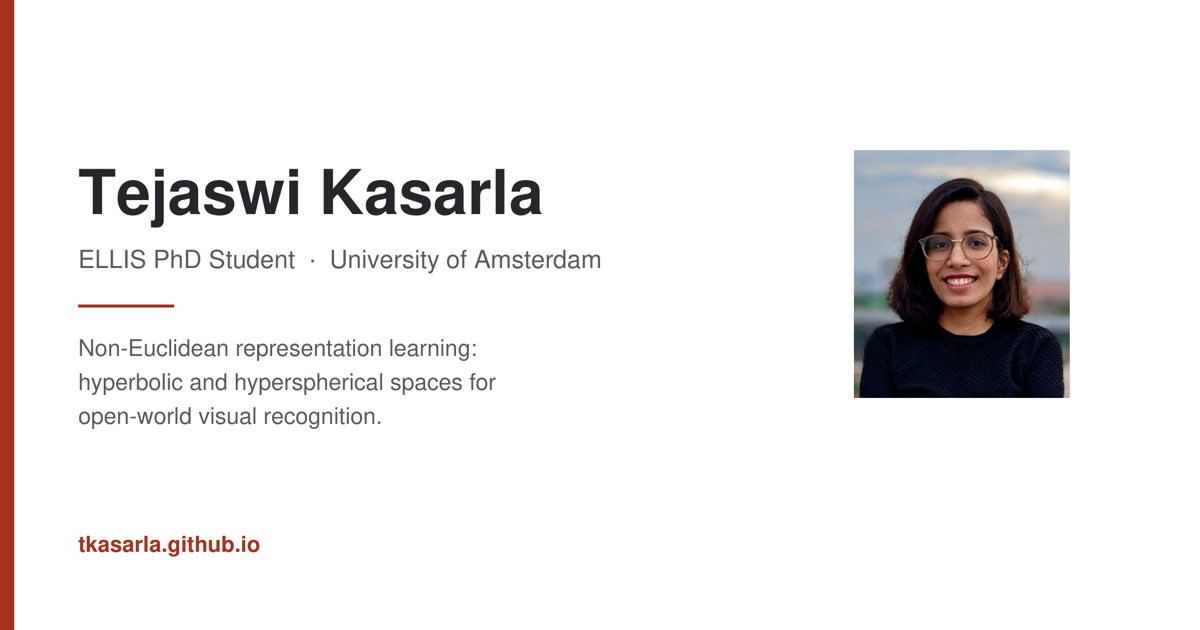
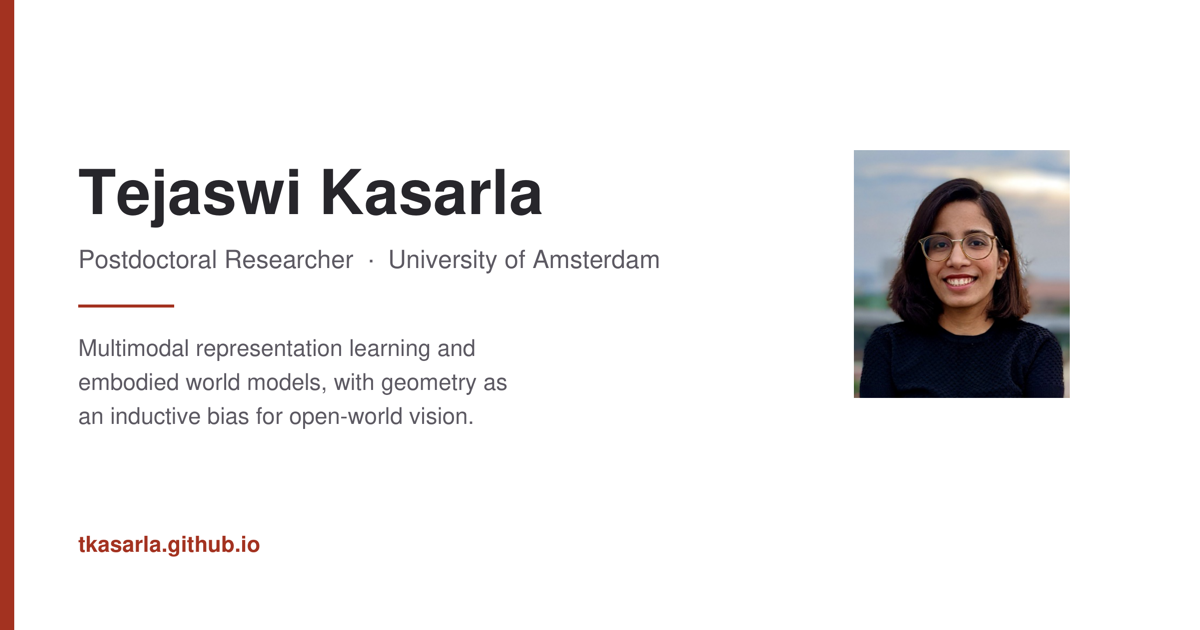
Update bio to postdoc role; fix HierVision venue
- Bio leads with the UvA postdoc (Cees Snoek, Openbots); PhD status
  left implicit. Page description and link-preview card updated too.
- Meta FAIR news entry still read as upcoming; added the postdoc start.
- HierVision said ECCV 2025 in four places; it was ICCV 2025. Added the
  CVF proceedings PDF, keeping OpenReview.

Changed region(s): [[0.0617, 0.5429, 0.4317, 0.6937], [0.0617, 0.3921, 0.555, 0.4524]]

diff --git a/_includes/js/custom.js b/_includes/js/custom.js
@@ -65,7 +65,7 @@ const bibtexData = {
   'hiervision': `@inproceedings{kasarla2025hiervision,
   title={HierVision: Standardized and Reproducible Hierarchical Sources for Vision Datasets},
   author={Kasarla, Tejaswi and Rooparaghunath, Ruthu Hulikal and D'Arrigo, Stefano and Mago, Gowreesh and Jha, Abhishek and Ayoughi, Melika and Mishra, Swasti Shreya and Manzano Rodr{\'{i}}guez, Ana and Long, Teng and Ghadimi Atigh, Mina and van Spengler, Max and Mettes, Pascal},
-  booktitle={ECCV Workshop on Beyond Euclidean},
+  booktitle={ICCV Workshop on Beyond Euclidean},
   year={2025}
 }`
 };

diff --git a/index.md b/index.md
@@ -2,7 +2,7 @@
 layout: default
 title: Home
 nav_order: 1
-description: "PhD Student, University of Amsterdam"
+description: "Postdoctoral Researcher, University of Amsterdam"
 permalink: /
 ---
 
@@ -12,9 +12,9 @@ permalink: /
 <div class="hero">
 <div class="hero-text" markdown="1">
 
-I am an ELLIS PhD student at [**University of Amsterdam**](https://www.uva.nl/en){: .text-grey-dk-100}, advised by [Pascal Mettes](https://staff.fnwi.uva.nl/p.s.m.mettes/index.html). My main research is in non-Euclidean representation learning (especially hyperbolic and hyperspherical representation spaces) and their applications to open-world visual recognition and multimodal foundation models. More recently, I am interested in how the geometry of the representation space can structure and ground embodied world models, so that agents can reason about actions and uncertainty at multiple levels of abstraction.
+I am a postdoctoral researcher at [**University of Amsterdam**](https://www.uva.nl/en){: .text-grey-dk-100}, working with [Cees Snoek](https://www.ceessnoek.info) on embodied world models. I am also part of the Openbots project with [TNO](https://www.tno.nl/en/) and the Royal Netherlands Marechaussee.
 
-I was a visiting researcher at [**UNIMORE**](https://www.unimore.it/){: .text-grey-dk-100} with [Rita Cucchiara](https://aimagelab.ing.unimore.it/imagelab/person.asp?idpersona=1) and a research intern at **Meta FAIR** with [Pascale Fung](https://www.linkedin.com/in/pascale-fung-a3aa05139). I care deeply about building inclusive research communities. I co-organized the [Women in Computer Vision (WiCV)](https://sites.google.com/view/wicv/) Workshop at CVPR 2021 & 2022 and have served on the WiCV board since 2022. 
+Previously, I was an ELLIS PhD student at University of Amsterdam, advised by [Pascal Mettes](https://staff.fnwi.uva.nl/p.s.m.mettes/index.html) and [Rita Cucchiara](https://aimagelab.ing.unimore.it/imagelab/person.asp?idpersona=1), where I worked on non-Euclidean representation learning (especially hyperbolic and hyperspherical representation spaces) for open-world recognition and multimodal models. I was a visiting researcher at [**UNIMORE**](https://www.unimore.it/){: .text-grey-dk-100} with Rita Cucchiara and a research intern at **Meta FAIR** with [Pascale Fung](https://www.linkedin.com/in/pascale-fung-a3aa05139). I co-organized the [Women in Computer Vision (WiCV)](https://sites.google.com/view/wicv/) Workshop at CVPR 2021 & 2022 and serve on the WiCV board.
 
 Outside academia, I am a photographer and home barista, always in search of good light and a [perfect cup](/more/#coffee) wherever I go!
 
@@ -43,9 +43,10 @@ Outside academia, I am a photographer and home barista, always in search of good
 
 | Date | Event |
 |------|-------|
+| Jun 2026 | I started as a postdoctoral researcher at the [University of Amsterdam](https://www.uva.nl/en), working on embodied world models with [Cees Snoek](https://www.ceessnoek.info). |
 | Apr 2026 | Our work on [Balanced Hyperbolic Embeddings are Natural Out-of-Distribution Detectors](https://link.springer.com/article/10.1007/s11263-026-02775-6) is accepted to IJCV! |
 | Jan 2026 | Our work on [Action100M: A Large-scale Video Action Dataset](https://arxiv.org/abs/2601.10592) is available as a preprint on arXiv! |
-| Jun 2025 | I started an internship at [Meta FAIR](https://ai.meta.com/research/) in Paris. I will spend the next 6 months working on multimodal LLMs. |
+| Jun 2025 | I joined [Meta FAIR](https://ai.meta.com/research/) in Paris for a six-month research internship on multimodal LLMs and world models. |
 | Apr 2025 | I will be a TA for the [Foundation Models (FoMo)](https://uvafomo.github.io) course at UvA. |
 | Mar 2025 | Our work on [Hyperbolic Safety-Aware Vision-Language Models](https://arxiv.org/abs/2503.12127) is accepted to CVPR 2025 as a Highlight! I will be presenting this work in-person at the conference. |
 | Jun 2024 | Visiting [Rita Cucchiara](https://aimagelab.ing.unimore.it/imagelab/person.asp?idpersona=1) at [University of Modena and Reggio Emilia](https://www.unimore.it/) until September 2024. |

diff --git a/publications.md b/publications.md
@@ -100,7 +100,7 @@ For a list of my featured publications, please scroll down the [home](/#featured
 </div>
 
 <div class="pub-card" markdown="1">
-**ECCV 2025 Beyond Euclidean Workshop** · <span class="pub-award">★ Oral</span>
+**ICCV 2025 Beyond Euclidean Workshop** · <span class="pub-award">★ Oral</span>
 {: .pub-venue}
 
 [HierVision: Standardized and Reproducible Hierarchical Sources for Vision Datasets](/papers/hiervision/)
@@ -109,7 +109,7 @@ For a list of my featured publications, please scroll down the [home](/#featured
 **Tejaswi Kasarla**, [Ruthu Hulikal Rooparaghunath](https://scholar.google.com/citations?user=RM1dNQoAAAAJ&hl=en), [Stefano D'Arrigo](https://www.linkedin.com/in/stefano-d-arrigo-6b084019a/), [Gowreesh Mago](https://gowreesh-mago.github.io/), [Abhishek Jha](https://abskjha.github.io), [Melika Ayoughi](https://melika.xyz/), [Swasti Shreya Mishra](https://www.linkedin.com/in/swastishreyamishra), [Ana Manzano Rodríguez](https://www.linkedin.com/in/ana-manzano-rodriguez), [Teng Long](https://www.linkedin.com/in/tenglong-926500116), [Mina Ghadimi Atigh](https://minaghadimi.github.io), Max van Spengler, [Pascal Mettes](https://staff.fnwi.uva.nl/p.s.m.mettes/)
 {: .pub-authors}
 
-[project page](/papers/hiervision/){: .pub-link} [paper](https://openreview.net/forum?id=deDq9Te0lT){: .pub-link target="_blank" rel="noopener noreferrer"} [code](https://github.com/tkasarla/HierVision){: .pub-link target="_blank" rel="noopener noreferrer"} <button class="pub-link bibtex-button" data-paper-id="hiervision">bibtex</button>
+[project page](/papers/hiervision/){: .pub-link} [paper](https://openaccess.thecvf.com/content/ICCV2025W/BEW/papers/Kasarla_HierVision_Standardized_and_Reproducible_Hierarchical_Sources_for_Vision_Datasets_ICCVW_2025_paper.pdf){: .pub-link target="_blank" rel="noopener noreferrer"} [openreview](https://openreview.net/forum?id=deDq9Te0lT){: .pub-link target="_blank" rel="noopener noreferrer"} [code](https://github.com/tkasarla/HierVision){: .pub-link target="_blank" rel="noopener noreferrer"} <button class="pub-link bibtex-button" data-paper-id="hiervision">bibtex</button>
 {: .pub-links}
 </div>
 

diff --git a/papers/hiervision.md b/papers/hiervision.md
@@ -2,7 +2,7 @@
 layout: paper
 title: "HierVision: Standardized and Reproducible Hierarchical Sources for Vision Datasets"
 nav_exclude: true
-venue: "ECCV 2025 · Beyond Euclidean Workshop"
+venue: "ICCV 2025 · Beyond Euclidean Workshop"
 award: "★ Oral"
 authors:
   - name: Tejaswi Kasarla
@@ -46,8 +46,11 @@ affiliations:
     name: VIS Lab, University of Amsterdam
 links:
   - label: "Paper"
-    url: "https://openreview.net/forum?id=deDq9Te0lT"
+    url: "https://openaccess.thecvf.com/content/ICCV2025W/BEW/papers/Kasarla_HierVision_Standardized_and_Reproducible_Hierarchical_Sources_for_Vision_Datasets_ICCVW_2025_paper.pdf"
     icon: "fas fa-file-lines"
+  - label: "OpenReview"
+    url: "https://openreview.net/forum?id=deDq9Te0lT"
+    icon: "fas fa-comments"
   - label: "Code"
     url: "https://github.com/tkasarla/HierVision"
     icon: "fab fa-github"
@@ -63,7 +66,7 @@ bibtex: |
   @inproceedings{kasarla2025hiervision,
     title={HierVision: Standardized and Reproducible Hierarchical Sources for Vision Datasets},
     author={Kasarla, Tejaswi and Rooparaghunath, Ruthu Hulikal and D'Arrigo, Stefano and Mago, Gowreesh and Jha, Abhishek and Ayoughi, Melika and Mishra, Swasti Shreya and Manzano Rodr{\'i}guez, Ana and Long, Teng and Ghadimi Atigh, Mina and van Spengler, Max and Mettes, Pascal},
-    booktitle={ECCV Workshop on Beyond Euclidean},
+    booktitle={ICCV Workshop on Beyond Euclidean},
     year={2025}
   }
 ---
